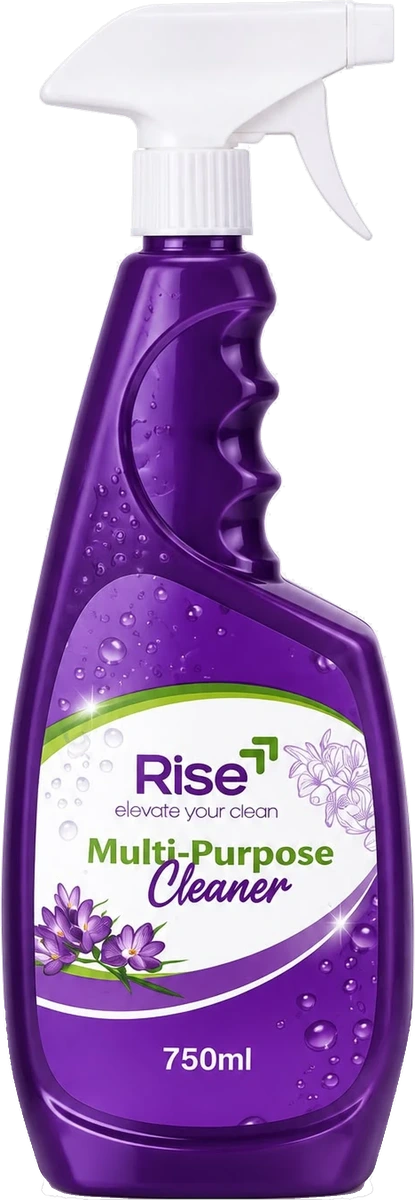
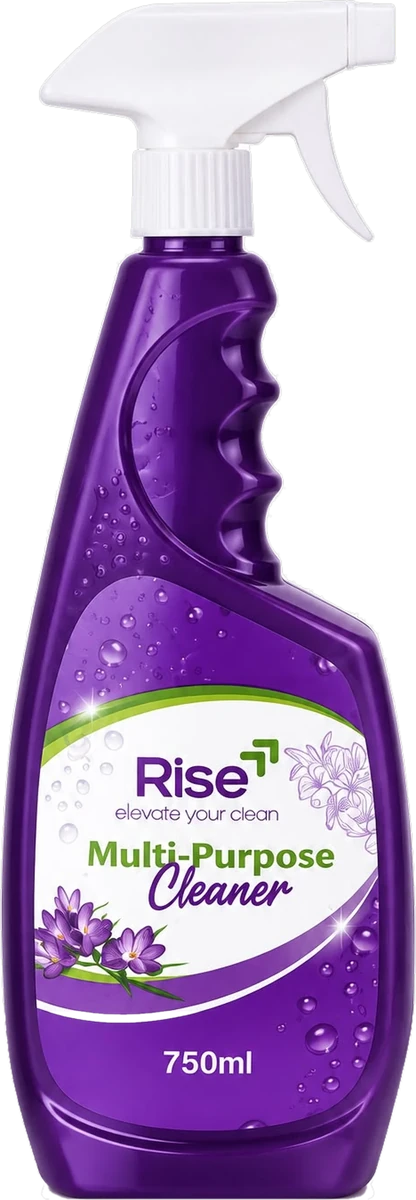
Replace product photos with cleaned artwork
The reflection under each bottle is removed in these files. They are final
artwork and must not be re-processed; re-running the old cleaning script is
what kept reintroducing the smear.

Bumps photoVersion to 5 so browsers fetch the new pictures.

diff --git a/rise-the-brand/source/src/data/store.js b/rise-the-brand/source/src/data/store.js
@@ -21,7 +21,7 @@ export const settings = {
 
   hours: "Monday to Friday, 8 a.m. to 5 p.m.",
 
-  photoVersion: 3,
+  photoVersion: 5,
   socials: {
     instagram: "#",
     facebook: "#",
@@ -29,7 +29,7 @@ export const settings = {
   },
 };
 
-export const photoVersion = 3;
+export const photoVersion = 5;
 
 export const products = [
   {
@@ -45,7 +45,7 @@ export const products = [
     badge: "Best Seller", // set to null to hide the badge
     // Three sizes of the same photo: the browser picks the sharpest one the screen needs
     image: "images/products/multi-purpose-cleaner-large.webp",
-    imageSet: "images/products/multi-purpose-cleaner-medium.webp 415w, images/products/multi-purpose-cleaner-large.webp 830w",
+    imageSet: "images/products/multi-purpose-cleaner-medium.webp 416w, images/products/multi-purpose-cleaner-large.webp 833w",
     thumb: "images/products/multi-purpose-cleaner-thumb.webp",
     // How tall the bottle appears next to the other products (1 is the tallest)
     scale: 1,
@@ -84,7 +84,7 @@ export const products = [
     stock: 40,
     badge: "New",
     image: "images/products/dishwashing-liquid-large.webp",
-    imageSet: "images/products/dishwashing-liquid-medium.webp 400w, images/products/dishwashing-liquid-large.webp 800w",
+    imageSet: "images/products/dishwashing-liquid-medium.webp 401w, images/products/dishwashing-liquid-large.webp 802w",
     thumb: "images/products/dishwashing-liquid-thumb.webp",
     scale: 0.95,
     ghost: "750",
@@ -122,7 +122,7 @@ export const products = [
     stock: 40,
     badge: "New",
     image: "images/products/pine-gel-large.webp",
-    imageSet: "images/products/pine-gel-medium.webp 1340w, images/products/pine-gel-large.webp 2681w",
+    imageSet: "images/products/pine-gel-medium.webp 1346w, images/products/pine-gel-large.webp 2691w",
     thumb: "images/products/pine-gel-thumb.webp",
     scale: 0.42,
     ghost: "1L",
@@ -160,7 +160,7 @@ export const products = [
     stock: 32,
     badge: null,
     image: "images/products/footwear-cleaner-large.webp",
-    imageSet: "images/products/footwear-cleaner-medium.webp 274w, images/products/footwear-cleaner-large.webp 547w",
+    imageSet: "images/products/footwear-cleaner-medium.webp 279w, images/products/footwear-cleaner-large.webp 558w",
     thumb: "images/products/footwear-cleaner-thumb.webp",
     scale: 0.7,
     ghost: "200",

diff --git a/rise-the-brand/source/scripts/clean-product-bases.py b/rise-the-brand/source/scripts/clean-product-bases.py
@@ -1,114 +1,132 @@
-import os
-import glob
+"""
+Remove the leftover studio reflection from the base of each product photo.
+
+Every bottle was shot standing on a white sweep, which leaves a pale band of
+reflection just under the base. On the dark hero that band shows up as a white
+smear under the product. The site draws its own floor shadow (.bottle-floor),
+so the baked in one is not wanted at all.
+
+The band is pale AND colourless, while the base of every Rise product is
+strongly coloured plastic, so the two are easy to tell apart. This only looks
+at the bottom of each image, so nothing near a white lid is at risk.
+
+It works on the -large file of each product and then rebuilds -medium and
+-thumb from that one cleaned master, so all three stay in exact proportion.
+Cleaning the three sizes separately would leave each with a slightly different
+crop, and the site scales products by height, so they would no longer line up
+next to each other.
+
+Run from rise-the-brand/source:
+    python3 scripts/clean-product-bases.py
+"""
+import pathlib
+import sys
+
 import numpy as np
 from PIL import Image
-from scipy.ndimage import label, binary_fill_holes
+from scipy import ndimage
 
-def clean_product_image(large_path):
-    # Load original master image
-    img = Image.open(large_path).convert("RGBA")
-    arr = np.array(img).copy()
-    h, w, _ = arr.shape
+IMAGES = pathlib.Path("public/images/products")
+ZONE = 0.16        # only the bottom sixth of the picture
+PALE_LUM = 140     # brighter than this
+NEUTRAL_SAT = 70   # and this close to grey = reflection, not product
+FEATHER = 1.2      # soften the new bottom edge
+TEXT_MAX_W = 0.30  # an enclosed gap narrower than this much of the image
+TEXT_MAX_H = 0.10  # and shorter than this much of it, is printed text
+MIN_BASE_SAT = 55  # a base row greyer than this is reflection, not plastic
+MAX_BASE_TRIM = 0.03  # never take more than this much off the bottom
 
-    # Only inspect the bottom sixth of the image
-    bottom_start = h * 5 // 6
-    bottom_arr = arr[bottom_start:, :, :]
 
-    r = bottom_arr[:, :, 0].astype(float)
-    g = bottom_arr[:, :, 1].astype(float)
-    b = bottom_arr[:, :, 2].astype(float)
-    a = bottom_arr[:, :, 3].astype(float)
+SIZES = (("large", 2400), ("medium", 1200), ("thumb", 360))
 
-    min_rgb = np.minimum(np.minimum(r, g), b)
-    max_rgb = np.maximum(np.maximum(r, g), b)
-    diff_rgb = max_rgb - min_rgb
 
-    # Identify pale / white studio reflection pixels
-    is_pale = (min_rgb > 125) & (diff_rgb < 45) & (a > 5)
-    is_bg = (a <= 15)
+def clean(path):
+    im = Image.open(path).convert("RGBA")
+    a = np.asarray(im).astype(np.int16)
+    rgb, alpha = a[:, :, :3], a[:, :, 3].astype(np.float32)
+    h = a.shape[0]
 
-    # Seed flood-fill from background & image border pixels in the bottom region
-    edge_mask = np.zeros((h - bottom_start, w), dtype=bool)
-    edge_mask[-1, :] = True
-    edge_mask[:, 0] = True
-    edge_mask[:, -1] = True
+    lum = rgb.min(axis=2)
+    sat = rgb.max(axis=2) - rgb.min(axis=2)
 
-    seed = is_bg | (edge_mask & (is_pale | (a < 100)))
-    mask_passable = is_bg | is_pale
+    zone = np.zeros(a.shape[:2], dtype=bool)
+    zone[int(h * (1 - ZONE)):, :] = True
 
-    # Connected component labeling to remove reflection connected to empty space
-    labeled, _ = label(mask_passable)
-    bg_labels = set(labeled[seed])
-    bg_labels.discard(0)
+    pale = zone & (alpha > 0) & (lum > PALE_LUM) & (sat < NEUTRAL_SAT)
+    if not pale.any():
+        return 0, im
 
-    remove_mask = np.isin(labeled, list(bg_labels)) & is_pale
+    # The volume printed on the label ("750ml", "1 Litre") is also pale and
+    # colourless and also sits low on the bottle. The difference is that the
+    # text is surrounded by coloured plastic, while the reflection runs out
+    # into empty space. So drop the pale pixels, then fill any enclosed gap
+    # straight back in, which returns the text and keeps the reflection gone.
+    kept = (alpha > 0) & ~pale
 
-    # Put back small enclosed gaps (e.g., text counter-spaces)
-    preserved_mask = ~remove_mask & (a > 10)
-    filled_preserved = binary_fill_holes(preserved_mask)
-    holes_to_restore = filled_preserved & ~preserved_mask
-    remove_mask[holes_to_restore] = False
+    # Restore only SMALL enclosed gaps. Printed text is a few narrow glyphs;
+    # a strip of reflection trapped under the base of a tub is wide and flat,
+    # and filling that back in is what puts the smear straight back.
+    holes = ndimage.binary_fill_holes(kept) & ~kept
+    lab, n = ndimage.label(holes)
+    for idx, sl in enumerate(ndimage.find_objects(lab), start=1):
+        hh = sl[0].stop - sl[0].start
+        ww = sl[1].stop - sl[1].start
+        if ww < a.shape[1] * TEXT_MAX_W and hh < h * TEXT_MAX_H:
+            kept |= lab == idx
 
-    # Apply alpha removal to cleaned array
-    arr_bottom_alpha = arr[bottom_start:, :, 3]
-    arr_bottom_alpha[remove_mask] = 0
+    # The last rows where the base meets the reflection are a ragged mix of
+    # plastic and backdrop, too coloured for the test above to catch but still
+    # visibly pale. Walk up from the bottom and drop rows until one is clean.
+    rows = np.where(kept.any(axis=1))[0]
+    if len(rows):
+        bottom = rows.max()
+        limit = int(h * MAX_BASE_TRIM)
+        while bottom > rows.min() and (rows.max() - bottom) < limit:
+            row = kept[bottom]
+            if not row.any():
+                break
+            # A row of the reflection is grey. A row of the product is the
+            # colour of the plastic it is moulded from. Median saturation
+            # tells them apart far more sharply than brightness does.
+            if float(np.median(sat[bottom][row])) >= MIN_BASE_SAT:
+                break
+            kept[bottom] = False
+            bottom -= 1
 
-    # Crop tight bounding box around non-transparent pixels
-    non_zero_y, non_zero_x = np.where(arr[:, :, 3] > 10)
-    xmin, xmax = non_zero_x.min(), non_zero_x.max()
-    ymin, ymax = non_zero_y.min(), non_zero_y.max()
+    removed = int(((alpha > 0) & ~kept).sum())
+    alpha[~kept] = 0.0
+    alpha = ndimage.gaussian_filter(alpha, FEATHER)
 
-    cleaned_master = Image.fromarray(arr).crop((xmin, ymin, xmax + 1, ymax + 1))
-    new_w, new_h = cleaned_master.size
+    out = Image.fromarray(np.dstack([rgb, alpha]).astype(np.uint8), "RGBA")
 
-    # Base directory and product name
-    base_dir = os.path.dirname(large_path)
-    base_name = os.path.basename(large_path).replace("-large.webp", "")
+    # re-crop, since the picture is usually shorter now
+    aa = np.asarray(out)[:, :, 3]
+    ys, xs = np.where(aa > 6)
+    out = out.crop((xs.min(), ys.min(), xs.max() + 1, ys.max() + 1))
+    return removed, out
 
-    # Save cleaned large master
-    large_out_path = os.path.join(base_dir, f"{base_name}-large.webp")
-    cleaned_master.save(large_out_path, format="WEBP", quality=95)
-    print(f"{base_name}-large.webp: width {new_w}px (height {new_h}px)")
-
-    # Save medium version (50% scale)
-    med_w = round(new_w * 0.5)
-    med_h = round(new_h * 0.5)
-    medium_img = cleaned_master.resize((med_w, med_h), Image.Resampling.LANCZOS)
-    medium_out_path = os.path.join(base_dir, f"{base_name}-medium.webp")
-    medium_img.save(medium_out_path, format="WEBP", quality=92)
-    print(f"{base_name}-medium.webp: width {med_w}px (height {med_h}px)")
-
-    # Save thumb version (15% scale)
-    thumb_w = round(new_w * 0.15)
-    thumb_h = round(new_h * 0.15)
-    thumb_img = cleaned_master.resize((thumb_w, thumb_h), Image.Resampling.LANCZOS)
-    thumb_out_path = os.path.join(base_dir, f"{base_name}-thumb.webp")
-    thumb_img.save(thumb_out_path, format="WEBP", quality=90)
-    print(f"{base_name}-thumb.webp: width {thumb_w}px (height {thumb_h}px)")
-
-    return {
-        "id": base_name,
-        "large_width": new_w,
-        "medium_width": med_w,
-        "thumb_width": thumb_w,
-    }
-
-def main():
-    products_dir = os.path.join(os.path.dirname(__file__), "..", "public", "images", "products")
-    large_files = sorted(glob.glob(os.path.join(products_dir, "*-large.webp")))
-
-    if not large_files:
-        print("No *-large.webp files found in", products_dir)
-        return
-
-    results = []
-    for filepath in large_files:
-        res = clean_product_image(filepath)
-        results.append(res)
-
-    print("\n--- Summary of New Widths ---")
-    for r in results:
-        print(f"{r['id']}: medium = {r['medium_width']}w, large = {r['large_width']}w (thumb = {r['thumb_width']}px)")
 
 if __name__ == "__main__":
-    main()
+    if not IMAGES.is_dir():
+        sys.exit(f"Run this from rise-the-brand/source. Not found: {IMAGES}")
+
+    masters = sorted(IMAGES.glob("*-large.webp"))
+    if not masters:
+        sys.exit(f"No -large.webp masters in {IMAGES}")
+
+    print("file                          removed px   rebuilt sizes")
+    for master in masters:
+        stem = master.name[: -len("-large.webp")]
+        removed, cleaned = clean(master)
+        built = []
+        for label, height in SIZES:
+            width = max(1, round(cleaned.width * height / cleaned.height))
+            target = IMAGES / f"{stem}-{label}.webp"
+            cleaned.resize((width, height), Image.LANCZOS).save(
+                target, "WEBP", quality=90, method=6, exact=True
+            )
+            built.append(f"{width}x{height}")
+        print(f"  {stem:26} {removed:9d}   {'  '.join(built)}")
+
+    print("\nNow bump photoVersion in src/data/store.js and update the srcset")
+    print("widths there to match the rebuilt sizes above.")
